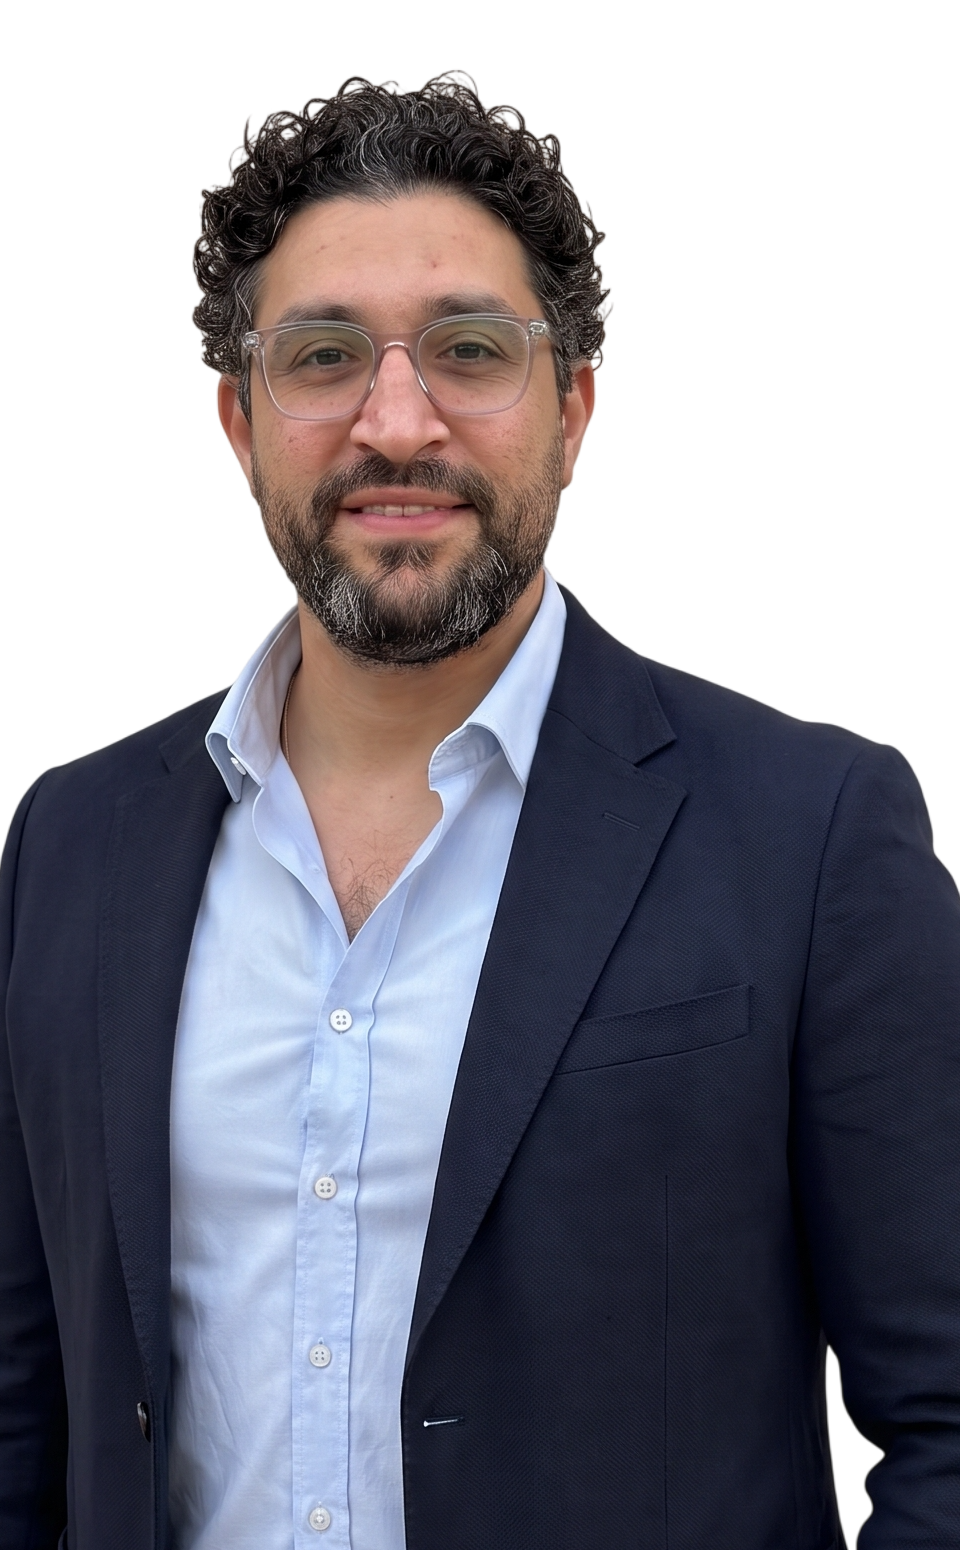
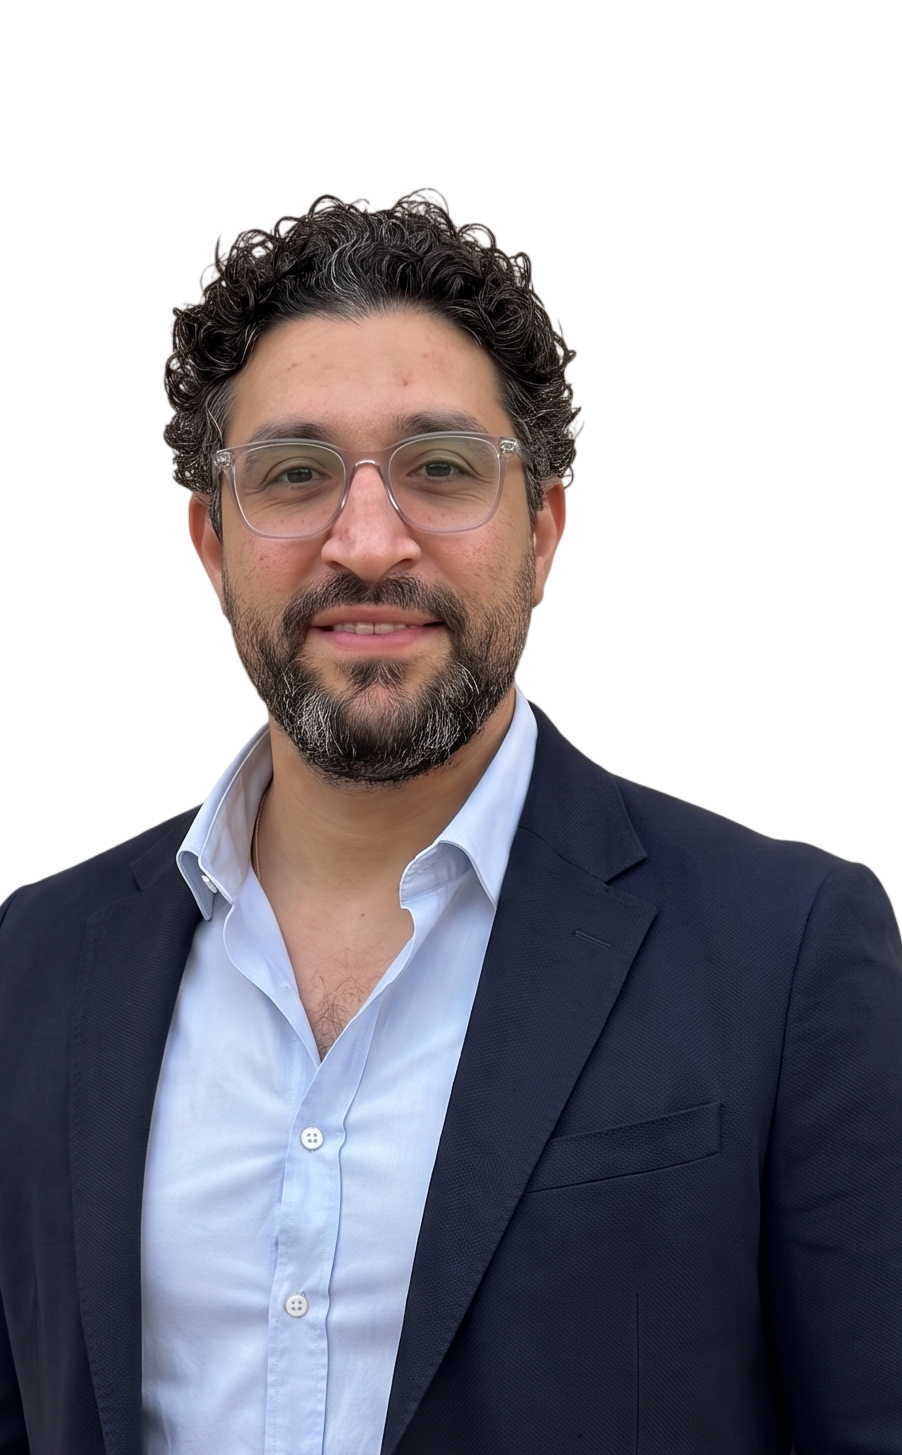
Align header nav links, hero geometry, arch 424x684, and bust scale 1:1 with Beverr

diff --git a/styles.css b/styles.css
@@ -3098,6 +3098,7 @@ a {
    ========================================================================== */
 
 /* Seamless Header on Hero */
+/* Seamless Header on Hero */
 .site-header.beverr-header-theme {
   background: transparent;
   border-bottom: none;
@@ -3106,17 +3107,30 @@ a {
   top: 0;
   left: 0;
   right: 0;
+  height: 100px;
+  display: flex;
+  align-items: center;
   z-index: 100;
   transition: all 0.3s ease;
 }
 
 .site-header.beverr-header-theme.scrolled {
   position: fixed;
-  background: rgba(15, 23, 42, 0.96);
+  background: rgba(9, 106, 97, 0.96);
   backdrop-filter: blur(14px);
   -webkit-backdrop-filter: blur(14px);
   border-bottom: 1px solid rgba(255, 255, 255, 0.1);
   box-shadow: 0 4px 20px rgba(0, 0, 0, 0.2);
+}
+
+.site-header.beverr-header-theme .nav-container {
+  max-width: 1290px;
+  width: 100%;
+  margin: 0 auto;
+  padding: 0 20px;
+  display: grid;
+  grid-template-columns: auto 1fr auto;
+  align-items: center;
 }
 
 .beverr-brand-logo {
@@ -3150,35 +3164,52 @@ a {
 
 .beverr-logo-text {
   font-family: 'Staatliches', 'Plus Jakarta Sans', sans-serif;
-  font-size: 1.6rem;
+  font-size: 28px;
   font-weight: 700;
   color: #ffffff;
-  letter-spacing: 0.06em;
+  letter-spacing: 0.05em;
   text-transform: uppercase;
   line-height: 1;
 }
 
+.beverr-header-nav {
+  display: flex;
+  justify-content: center;
+}
+
+.beverr-header-nav .nav-links {
+  display: flex;
+  align-items: center;
+  gap: 60px;
+  list-style: none;
+  margin: 0;
+  padding: 0;
+}
+
 .beverr-header-nav .nav-link {
-  color: #ffffff;
-  font-size: 0.98rem;
-  font-weight: 500;
-  padding: 8px 18px;
-  border-radius: 8px;
-  opacity: 0.9;
-  transition: opacity 0.2s ease, color 0.2s ease;
+  font-family: 'Plus Jakarta Sans', system-ui, sans-serif;
+  font-size: 16px;
+  font-weight: 600;
+  color: rgba(255, 255, 255, 0.8);
+  text-decoration: none;
+  padding: 0;
+  background: transparent !important;
+  border-radius: 0;
+  line-height: 1.3;
+  transition: color 0.2s ease;
 }
 
 .beverr-header-nav .nav-link:hover,
 .beverr-header-nav .nav-link.active {
-  opacity: 1;
   color: #ffffff;
-  background: rgba(255, 255, 255, 0.12);
+  background: transparent !important;
 }
 
 .beverr-header-socials {
   display: flex;
   align-items: center;
   gap: 18px;
+  justify-content: flex-end;
 }
 
 .beverr-social-link {
@@ -3197,7 +3228,7 @@ a {
 
 .beverr-social-link:hover {
   opacity: 1;
-  color: #38bdf8;
+  color: #FDD746;
   transform: translateY(-2px);
 }
 
@@ -3228,56 +3259,63 @@ a {
 
 .beverr-hero-container {
   display: grid;
-  grid-template-columns: 1.15fr auto 1fr;
-  align-items: center;
-  gap: 40px;
+  grid-template-columns: 1fr 424px 1fr;
+  align-items: flex-end;
+  gap: 10px;
   position: relative;
   z-index: 22;
   overflow: visible;
-  max-width: 1360px;
+  max-width: 1290px;
+  margin: 0 auto;
+  padding: 0 20px;
 }
 
 .beverr-hero-left {
-  align-self: center;
   padding-bottom: 50px;
   position: relative;
   z-index: 5;
+  display: flex;
+  flex-direction: column;
+  align-items: flex-start;
+  justify-content: flex-end;
 }
 
 .beverr-greeting {
+  font-family: 'Plus Jakarta Sans', system-ui, sans-serif;
   font-size: 24px;
   font-weight: 600;
   color: #ffffff;
   margin-bottom: 20px;
   letter-spacing: -0.01em;
-  opacity: 0.95;
+  line-height: 1.2;
 }
 
 .beverr-name {
   font-family: 'Staatliches', cursive, sans-serif;
-  font-size: clamp(3.8rem, 6.2vw, 7.5rem);
-  line-height: 0.9;
+  font-size: clamp(4.5rem, 6.2vw, 120px);
+  line-height: 0.9em;
   color: #ffffff;
   text-transform: uppercase;
-  margin: 0 0 24px 0;
-  letter-spacing: 0.02em;
+  margin: 0 0 20px 0;
+  letter-spacing: 0;
 }
 
 .beverr-deco-line {
   width: 250px;
   max-width: 100%;
   height: auto;
-  margin-bottom: 24px;
+  margin-bottom: 30px;
   display: block;
 }
 
 .beverr-role {
+  font-family: 'Plus Jakarta Sans', system-ui, sans-serif;
   font-size: 22px;
   color: #ffffff;
-  opacity: 0.75;
+  opacity: 0.7;
   font-weight: 500;
   text-transform: uppercase;
-  letter-spacing: 0.04em;
+  letter-spacing: normal;
   line-height: 1.2;
   margin: 0;
 }
@@ -3290,6 +3328,7 @@ a {
   position: relative;
   z-index: 30;
   overflow: visible;
+  width: 424px;
 }
 
 .beverr-arch-frame {
@@ -3336,33 +3375,40 @@ a {
 
 /* Right Column Vertically Stacked Metrics */
 .beverr-hero-right {
-  align-self: center;
   padding-bottom: 50px;
   display: flex;
   flex-direction: column;
-  gap: 32px;
   text-align: right;
   align-items: flex-end;
+  justify-content: flex-end;
+  position: relative;
+  z-index: 5;
 }
 
 .beverr-stat-item {
   text-align: right;
+  margin-bottom: 30px;
+}
+
+.beverr-stat-item:last-child {
+  margin-bottom: 0;
 }
 
 .beverr-stat-label {
+  font-family: 'Plus Jakarta Sans', system-ui, sans-serif;
   font-size: 24px;
   color: #ffffff;
-  opacity: 0.75;
+  opacity: 0.7;
   font-weight: 500;
-  margin-bottom: 6px;
+  margin-bottom: 10px;
 }
 
 .beverr-stat-number {
   font-family: 'Staatliches', cursive, sans-serif;
-  font-size: clamp(3.6rem, 5.2vw, 5rem);
-  font-weight: 700;
+  font-size: 70px;
+  font-weight: 400;
   color: #ffffff;
-  line-height: 1;
+  line-height: 1em;
 }
 
 /* ==========================================================================
